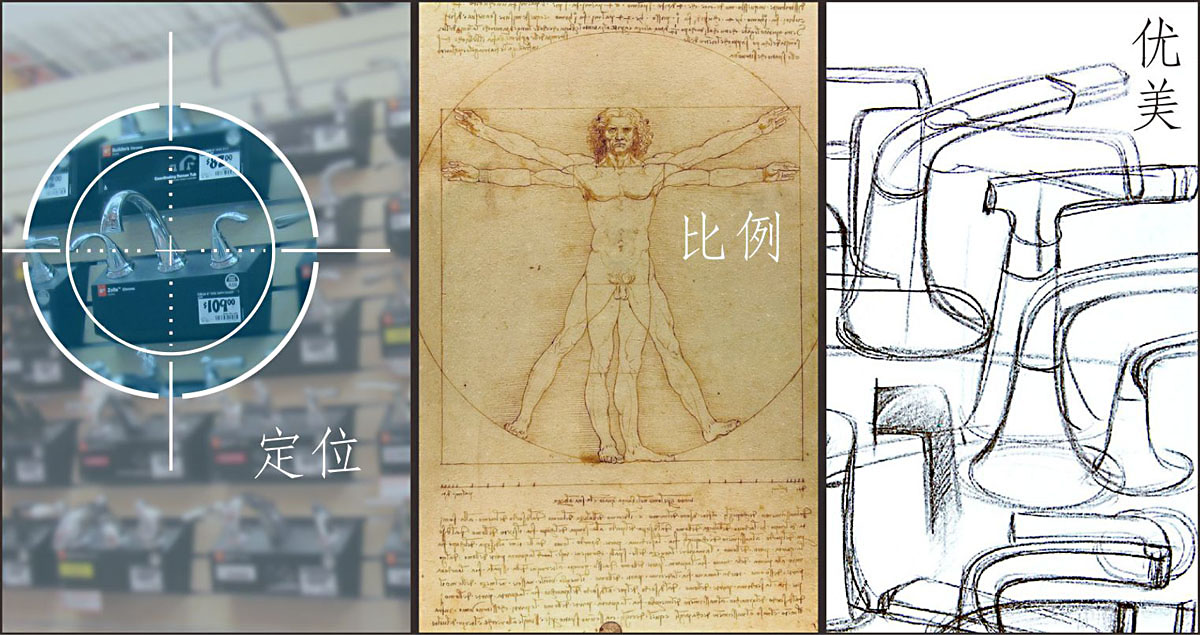
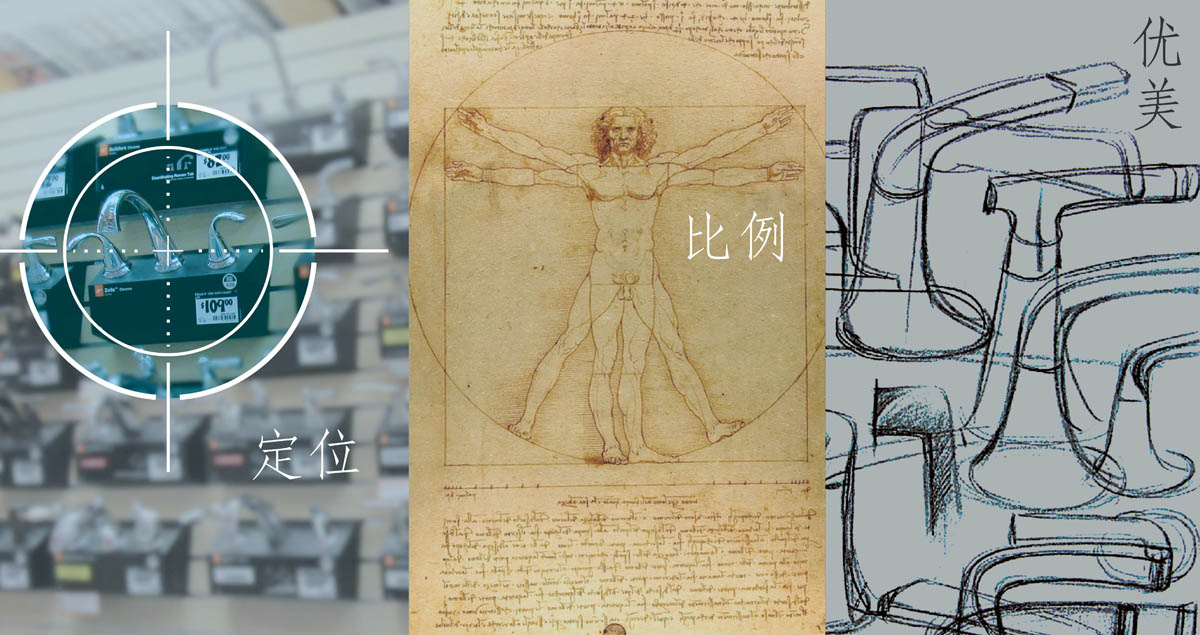
剑：修改首页及内页背景色。

diff --git a/index.html b/index.html
@@ -2,7 +2,7 @@
 "http://www.w3.org/TR/html4/loose.dtd">
 <head>
 <meta http-equiv="Content-Type" content="text/html; charset=utf-8" />
-<title>SIMPLI Flash</title>
+<title>Smpli Design Flash</title>
 <link href="jian_style.css" rel="stylesheet" type="text/css" />
 <!--[if IE]>
 <link href="jian_style_ie.css" rel="stylesheet" type="text/css" />
@@ -37,29 +37,35 @@ body {
 	background-color: #FFFFFF;
 }
 .style19 {font-size: 10px}
+.STYLE26 {font-size: 8px}
+.STYLE27 {font-size: x-small; color: #FFFFFF; }
+.STYLE30 {
+	color: #CCCCCC;
+	font-size: 8px;
+}
 -->
 </style>
 </head>
 
 <body>
 
-    <div align="center" class="style1">
+    <div align="center" class="style1"> <span class="style1">
       <object classid="clsid:D27CDB6E-AE6D-11cf-96B8-444553540000" codebase="http://download.macromedia.com/pub/shockwave/cabs/flash/swflash.cab#version=6,0,29,0" width="1066" height="611">
         <param name="movie" value="swf/open.swf" />
         <param name="quality" value="high" />
         <embed src="swf/open.swf" quality="high" pluginspage="http://www.macromedia.com/go/getflashplayer" type="application/x-shockwave-flash" width="1066" height="611"></embed>
       </object>
-</div>
-    </div>
-<div style="text-align:center;"><span class="style1 style1">------------------------------------------------------------------------------------------------------------------------------ -------------------------------------------------------------------------- ------ ------------</span><span class="style1"><span class="style19">Copyright 2015. SIMPLI DESIGN STUDIO.</span></span></div>
+    </span></div>
+    <div style="text-align:center;">
+      <div align="center">
+        <div></div>
+      <span class="STYLE30">Copyright 2015. SIMPLI DESIGN STUDIO.</span></div>
 </div>
 <div align="center">
   <script language="javascript" type="text/javascript">
 	loadFlash("swf/start.swf","divIndexFlash","780","440");
 </script>
-</div>
-<p align="center">&nbsp;</p>
-<p align="center"><span class="style18"><span class="style1">----</span><a href="welcome-c.html">中文</a></span> <span class="style1">----------------------------------------------<span class="style15">-</span></span><span class="style13"><a href="welcome.html">English</a></span></p>
+<span class="style18"><a href="welcome-c.html">中文</a></span> <span class="style1">----------------------------------------------<span class="style15">-</span></span><span class="style13"><a href="welcome.html">English</a></span></div>
 <p align="center">&nbsp;</p>
 <p align="center">&nbsp;</p>
 <p align="center">&nbsp;</p>

diff --git a/welcome.html b/welcome.html
@@ -5,7 +5,7 @@
     <meta http-equiv="X-UA-Compatible" content="IE=edge,chrome=1" />
     <meta name="viewport" content="width=device-width, initial-scale=1.0, maximum-scale=1.0">
 
-    <title>Simplid - Moye's 3D world</title>
+    <title>SIMPLI - Inheritance&amp;innovation</title>
 
     <link rel="stylesheet" type="text/css" href="semantic/semantic.css">
     <link rel="stylesheet" type="text/css" href="css/slider.css">

diff --git a/welcome-c.html b/welcome-c.html
@@ -5,7 +5,7 @@
     <meta http-equiv="X-UA-Compatible" content="IE=edge,chrome=1" />
     <meta name="viewport" content="width=device-width, initial-scale=1.0, maximum-scale=1.0">
 
-    <title>简 - Moye 的 3D 世界</title>
+    <title>简 - 继承与创新</title>
 
     <link rel="stylesheet" type="text/css" href="semantic/semantic.css">
     <link rel="stylesheet" type="text/css" href="css/slider.css">

diff --git a/homepage.css b/homepage.css
@@ -4,8 +4,12 @@
 
 html {
   font-size: 14px;
+  font-family: Lato, "Helvetica Neue", Arial, Helvetica, sans-serif;
 }
 
+body {
+  background-color: #e0e4e4;
+}
 
 /*******************************
             Global
